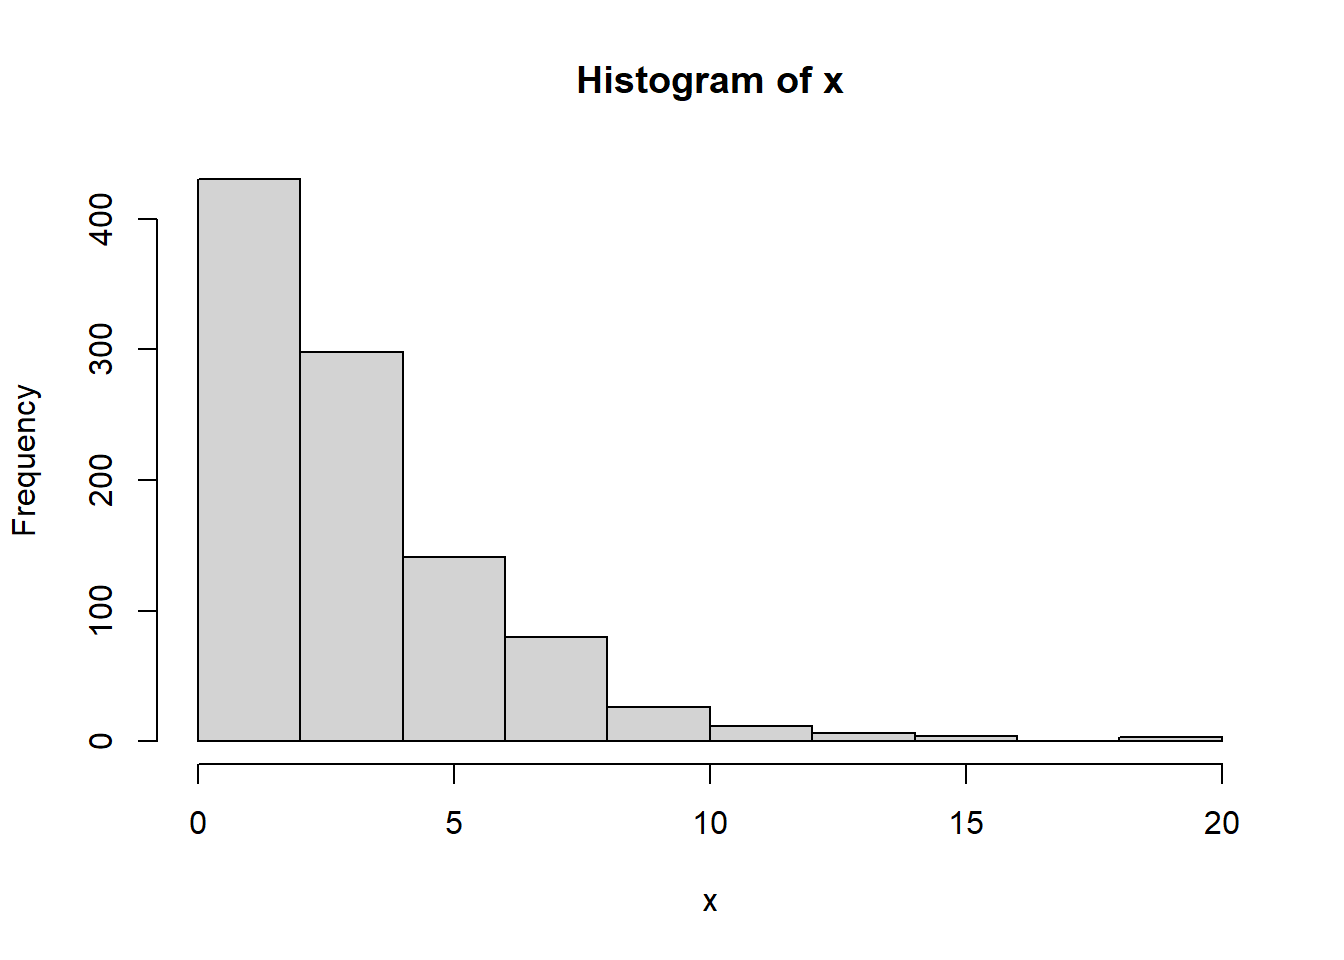
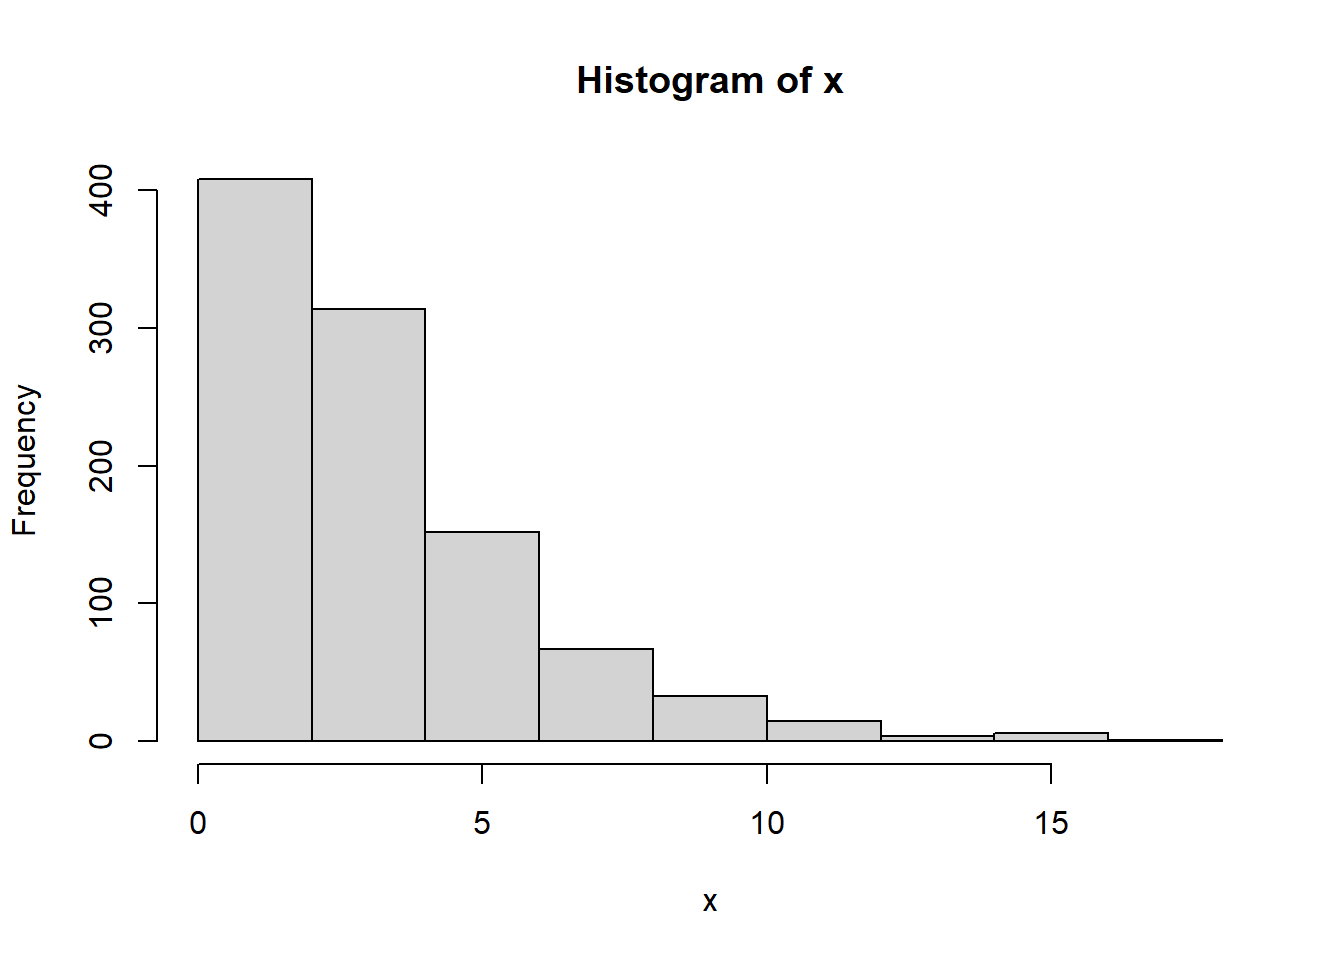
update

diff --git a/bigdata/_book/introR.html b/bigdata/_book/introR.html
@@ -490,7 +490,7 @@ code span.wa { color: #60a0b0; font-weight: bold; font-style: italic; } /* Warni
 <span id="cb62-2"><a href="introR.html#cb62-2"></a>v2 &lt;-<span class="st"> </span><span class="kw">c</span>(<span class="st">&quot;hola&quot;</span>,<span class="st">&quot;cómo&quot;,&quot;</span>estás<span class="st">&quot;,&quot;</span>adios<span class="st">&quot;)</span></span>
 <span id="cb62-3"><a href="introR.html#cb62-3"></a><span class="st">v3&lt;- c(4,2,6,7,12,&quot;</span>hola<span class="st">&quot;)</span></span>
 <span id="cb62-4"><a href="introR.html#cb62-4"></a><span class="st">v4&lt;-(v1 &gt; 5)</span></span>
-<span id="cb62-5"><a href="introR.html#cb62-5"></a><span class="st">v5&lt;-c(-9,pi,3/7)</span></span></code></pre></div>
+<span id="cb62-5"><a href="introR.html#cb62-5"></a><span class="st">v5&lt;-c(-9,pi,3/7) </span></span></code></pre></div>
 <ul>
 <li>Matrices</li>
 <li>Arrays</li>
@@ -525,105 +525,105 @@ code span.wa { color: #60a0b0; font-weight: bold; font-style: italic; } /* Warni
 <div class="sourceCode" id="cb77"><pre class="sourceCode r"><code class="sourceCode r"><span id="cb77-1"><a href="introR.html#cb77-1"></a><span class="co"># vectores con usos estadisticos</span></span>
 <span id="cb77-2"><a href="introR.html#cb77-2"></a></span>
 <span id="cb77-3"><a href="introR.html#cb77-3"></a><span class="kw">rbinom</span>(<span class="dv">10</span>,<span class="dv">5</span>,<span class="fl">0.1</span>)</span></code></pre></div>
-<pre><code>##  [1] 0 2 0 0 1 1 0 1 0 2</code></pre>
+<pre><code>##  [1] 1 1 1 0 1 0 0 0 0 2</code></pre>
 <div class="sourceCode" id="cb79"><pre class="sourceCode r"><code class="sourceCode r"><span id="cb79-1"><a href="introR.html#cb79-1"></a><span class="kw">rnorm</span>(<span class="dv">10</span>,<span class="dv">5</span>,<span class="dv">10</span>)</span></code></pre></div>
-<pre><code>##  [1]  2.5400944 12.5894254 28.8771059
-##  [4]  9.5687853 10.3186694 -0.0332337
-##  [7] -6.5698459 24.2907769 -7.0164373
-## [10]  7.4149705</code></pre>
+<pre><code>##  [1] 24.09238465 -6.00610563 -0.03715932
+##  [4] -0.21695297  2.65942631  8.06773233
+##  [7]  6.26846022  0.80547579 20.02480102
+## [10]  2.58962408</code></pre>
 <div class="sourceCode" id="cb81"><pre class="sourceCode r"><code class="sourceCode r"><span id="cb81-1"><a href="introR.html#cb81-1"></a><span class="kw">runif</span>(<span class="dv">10</span>,<span class="dv">50</span>,<span class="dv">500</span>)</span></code></pre></div>
-<pre><code>##  [1] 275.8814 218.5464 273.4610 408.0668
-##  [5] 431.5422 379.3312 135.3784 364.8523
-##  [9] 264.3905 358.7810</code></pre>
+<pre><code>##  [1] 498.9984 225.6644 293.2706 394.6936
+##  [5] 297.4047  79.4207 168.4645 207.6938
+##  [9] 124.4087 276.9734</code></pre>
 <div class="sourceCode" id="cb83"><pre class="sourceCode r"><code class="sourceCode r"><span id="cb83-1"><a href="introR.html#cb83-1"></a><span class="kw">rchisq</span>(<span class="dv">10</span>,<span class="dv">2</span>)</span></code></pre></div>
-<pre><code>##  [1]  1.91266331  1.07148913 12.48886742
-##  [4]  3.40608857  0.06802534  0.16581041
-##  [7]  4.64768857  2.86645878  8.06033300
-## [10]  1.06704585</code></pre>
+<pre><code>##  [1] 0.08454445 0.75850669 1.49997662
+##  [4] 0.31091145 0.51485433 0.33578069
+##  [7] 3.28674120 3.28344311 0.61795515
+## [10] 3.44562944</code></pre>
 <div class="sourceCode" id="cb85"><pre class="sourceCode r"><code class="sourceCode r"><span id="cb85-1"><a href="introR.html#cb85-1"></a><span class="kw">rexp</span>(<span class="dv">10</span>,<span class="dv">5</span>)</span></code></pre></div>
-<pre><code>##  [1] 0.41566051 0.11324351 0.06906738
-##  [4] 0.05680331 0.03888061 0.09613919
-##  [7] 0.20077498 0.03953498 0.01769949
-## [10] 0.14199296</code></pre>
+<pre><code>##  [1] 0.150585755 0.087316349 0.078735329
+##  [4] 0.150730547 0.187380143 0.001340369
+##  [7] 0.059192514 0.235277237 0.274234709
+## [10] 0.002789192</code></pre>
 <div class="sourceCode" id="cb87"><pre class="sourceCode r"><code class="sourceCode r"><span id="cb87-1"><a href="introR.html#cb87-1"></a>x&lt;-<span class="kw">rchisq</span>(<span class="dv">1000</span>,<span class="dv">3</span>)</span>
 <span id="cb87-2"><a href="introR.html#cb87-2"></a><span class="kw">hist</span>(x)</span></code></pre></div>
 <p><img src="bigdata_files/figure-html/unnamed-chunk-12-1.png" width="672" /></p>
 <div class="sourceCode" id="cb88"><pre class="sourceCode r"><code class="sourceCode r"><span id="cb88-1"><a href="introR.html#cb88-1"></a>(<span class="kw">sum</span>((x<span class="op">-</span><span class="kw">mean</span>(x))<span class="op">**</span><span class="dv">4</span>)<span class="op">/</span><span class="dv">1000</span>)<span class="op">/</span><span class="kw">sd</span>(x)<span class="op">**</span><span class="dv">4</span></span></code></pre></div>
-<pre><code>## [1] 8.415386</code></pre>
+<pre><code>## [1] 6.58768</code></pre>
 <div class="sourceCode" id="cb90"><pre class="sourceCode r"><code class="sourceCode r"><span id="cb90-1"><a href="introR.html#cb90-1"></a><span class="kw">median</span>(<span class="kw">rexp</span>(<span class="dv">100000</span>,<span class="dv">3</span>))</span></code></pre></div>
-<pre><code>## [1] 0.2310248</code></pre>
+<pre><code>## [1] 0.2308084</code></pre>
 <div class="sourceCode" id="cb92"><pre class="sourceCode r"><code class="sourceCode r"><span id="cb92-1"><a href="introR.html#cb92-1"></a><span class="kw">quantile</span>(x,<span class="kw">c</span>(<span class="dv">2</span>,<span class="dv">56</span>)<span class="op">/</span><span class="dv">100</span>)</span></code></pre></div>
 <pre><code>##        2%       56% 
-## 0.2293797 2.7180893</code></pre>
+## 0.1849028 2.8800345</code></pre>
 <div class="sourceCode" id="cb94"><pre class="sourceCode r"><code class="sourceCode r"><span id="cb94-1"><a href="introR.html#cb94-1"></a><span class="kw">quantile</span>(x,<span class="dv">1</span><span class="op">:</span><span class="dv">100</span><span class="op">/</span><span class="dv">100</span>)</span></code></pre></div>
 <pre><code>##         1%         2%         3% 
-##  0.1131054  0.2293797  0.2814630 
+##  0.1223425  0.1849028  0.2528970 
 ##         4%         5%         6% 
-##  0.3101522  0.3574504  0.4311506 
+##  0.2890370  0.4036570  0.4624109 
 ##         7%         8%         9% 
-##  0.4876773  0.5244656  0.5534137 
+##  0.5102613  0.5504407  0.5762269 
 ##        10%        11%        12% 
-##  0.6014027  0.6310603  0.6618473 
+##  0.6291068  0.6487806  0.6984612 
 ##        13%        14%        15% 
-##  0.6969918  0.7534895  0.8071373 
+##  0.7467938  0.7914937  0.8267471 
 ##        16%        17%        18% 
-##  0.8314800  0.8654730  0.9253851 
+##  0.8542875  0.8933875  0.9526176 
 ##        19%        20%        21% 
-##  0.9518333  0.9877586  1.0201267 
+##  1.0185978  1.0480164  1.0942738 
 ##        22%        23%        24% 
-##  1.0518023  1.0940868  1.1336564 
+##  1.1236013  1.1695281  1.2199302 
 ##        25%        26%        27% 
-##  1.1893136  1.2297933  1.2824153 
+##  1.2555365  1.3083958  1.3377419 
 ##        28%        29%        30% 
-##  1.3089422  1.3358974  1.3776754 
+##  1.3775292  1.4363351  1.4758797 
 ##        31%        32%        33% 
-##  1.4226209  1.4572973  1.5042136 
+##  1.5181091  1.5452693  1.6010952 
 ##        34%        35%        36% 
-##  1.5548212  1.5863016  1.6202244 
+##  1.6365540  1.6922584  1.7497882 
 ##        37%        38%        39% 
-##  1.6614548  1.7017819  1.7617902 
+##  1.7926344  1.8495561  1.8944820 
 ##        40%        41%        42% 
-##  1.8571460  1.9065942  1.9500286 
+##  1.9408574  2.0089497  2.0492629 
 ##        43%        44%        45% 
-##  1.9999729  2.0498721  2.0986051 
+##  2.0803153  2.1182080  2.1568884 
 ##        46%        47%        48% 
-##  2.1565276  2.1825100  2.2052712 
+##  2.2084300  2.2746177  2.3186241 
 ##        49%        50%        51% 
-##  2.2574265  2.3258287  2.3700112 
+##  2.3603406  2.4476564  2.5087429 
 ##        52%        53%        54% 
-##  2.3960696  2.4454068  2.5560871 
+##  2.5837539  2.6525649  2.7453824 
 ##        55%        56%        57% 
-##  2.6450104  2.7180893  2.7854068 
+##  2.7965133  2.8800345  2.9062124 
 ##        58%        59%        60% 
-##  2.8407170  2.8926664  2.9507271 
+##  2.9723759  3.0335777  3.0922725 
 ##        61%        62%        63% 
-##  2.9905887  3.0643677  3.1486535 
+##  3.1338677  3.2056759  3.2862845 
 ##        64%        65%        66% 
-##  3.1925630  3.2651594  3.3100955 
+##  3.3695446  3.4115148  3.4782693 
 ##        67%        68%        69% 
-##  3.3725015  3.4500211  3.5470178 
+##  3.5236313  3.5661606  3.6614578 
 ##        70%        71%        72% 
-##  3.6626415  3.7285733  3.8714602 
+##  3.7758392  3.8534585  3.9584588 
 ##        73%        74%        75% 
-##  4.0297351  4.1773894  4.2866817 
+##  4.0713983  4.1750603  4.2995399 
 ##        76%        77%        78% 
-##  4.3479993  4.4400832  4.5439545 
+##  4.3601677  4.4057418  4.5345189 
 ##        79%        80%        81% 
-##  4.5935517  4.7280473  4.8176579 
+##  4.6518949  4.7745400  4.9179124 
 ##        82%        83%        84% 
-##  4.9288418  5.0999541  5.3253561 
+##  5.0287697  5.1594274  5.3022338 
 ##        85%        86%        87% 
-##  5.4704265  5.7033237  6.0071454 
+##  5.5106405  5.6792293  5.8971414 
 ##        88%        89%        90% 
-##  6.1286889  6.2243760  6.4453424 
+##  6.2242928  6.4070552  6.5787714 
 ##        91%        92%        93% 
-##  6.7379035  6.9300180  7.4710224 
+##  6.8814746  7.0824246  7.5610659 
 ##        94%        95%        96% 
-##  7.7977810  8.0201621  8.7198217 
+##  7.8549114  8.5103163  8.9669472 
 ##        97%        98%        99% 
-##  9.4195396 10.4484641 12.4918647 
+##  9.5967729 10.3665457 12.0155323 
 ##       100% 
-## 19.6284012</code></pre>
+## 16.6147211</code></pre>
 <div class="sourceCode" id="cb96"><pre class="sourceCode r"><code class="sourceCode r"><span id="cb96-1"><a href="introR.html#cb96-1"></a>a1&lt;-<span class="kw">matrix</span>(<span class="dv">1</span><span class="op">:</span><span class="dv">20</span>,<span class="dv">4</span>,<span class="dv">5</span>)</span>
 <span id="cb96-2"><a href="introR.html#cb96-2"></a>I&lt;-<span class="kw">diag</span>(<span class="kw">rep</span>(<span class="dv">1</span>,<span class="dv">5</span>))</span>
 <span id="cb96-3"><a href="introR.html#cb96-3"></a>b1&lt;-<span class="kw">t</span>(a1)<span class="op">%*%</span>a1</span>
